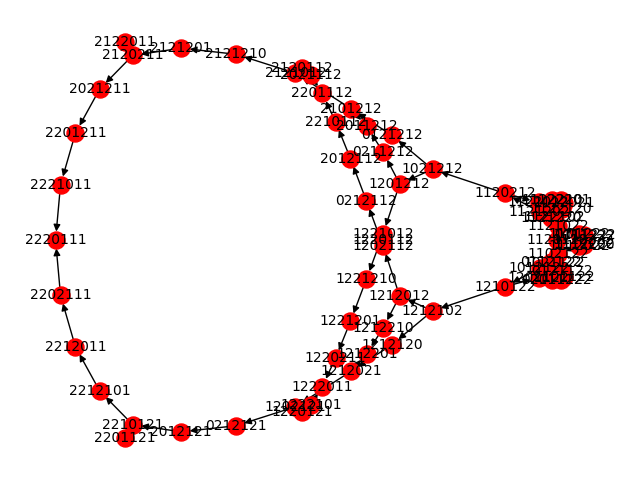
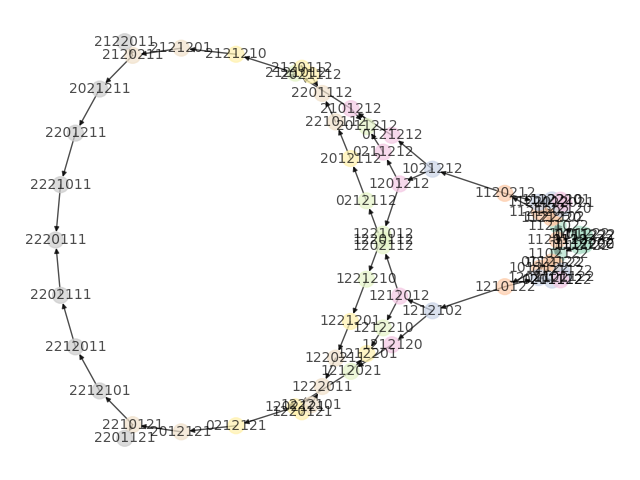
Changed aesthetics and added comments

diff --git a/frog_search_tree.py b/frog_search_tree.py
@@ -42,23 +42,36 @@ class FrogGameSearchTree():
     INITIAL_STATE = '1110222'
     FINAL_STATE = '2220111'
 
-
+    # Returns string representation of the Frog Search Tree
     def __str__(self):
         return str(self.root)
 
+    # Constructor
     def __init__(self):
         self.G = nx.DiGraph()
-        self.counter = 0
         self.root = Node(self.INITIAL_STATE)
 
+    '''
+    Is the frog at that position green?
+    '''
     def isGreenFrog(self,frog):
         return frog is '1'
+    '''
+    Is the frog at that position brown?
+    '''
     def isBrownFrog(self,frog):
         return frog is '2'
 
+    '''
+    Is there no frog at that position?
+    '''
     def hasNoFrog(self,frog):
         return frog is '0'
 
+    '''
+    Constructs the search tree of the graph and calls add_edge
+    to create the search graph
+    '''
     def getStates(self):
 
         unexplored_nodes = queue.Queue()
@@ -67,9 +80,9 @@ class FrogGameSearchTree():
         # Add starting Node
         self.G.add_node(self.root.state)
 
-        ctr = 0
         while True:
             latest_node = unexplored_nodes.get()
+
             if latest_node.state is self.FINAL_STATE:
                 exit()
 
@@ -77,8 +90,6 @@ class FrogGameSearchTree():
                 frogs = latest_node.state
 
 
-                print("Iteration # " + str(ctr))
-                ctr += 1
                 for i in range(len(frogs)):
 
                     if self.isGreenFrog(frogs[i]) and i < len(frogs) - 1:
@@ -153,10 +164,9 @@ class FrogGameSearchTree():
                 print("Bye\n")
                 return
 
+    '''Creates an edge between old_state and new_state and creates a new node
+       if necessary '''
     def add_edge(self,old_state,new_state):
-        print(old_state + ',' + new_state)
-        # if not self.G.has_node(new_state):
-        #     self.G.add_node(new_state)
 
         if not self.G.has_edge(old_state,new_state):
             self.G.add_edge(old_state,new_state)
@@ -166,9 +176,10 @@ class FrogGameSearchTree():
 def main():
     tree = FrogGameSearchTree()
     tree.getStates()
+    print('Search Tree of Frog Problem\n' + '-'*75 + '\n')
     print(tree)
-
-    nx.draw_spectral(tree.G,with_labels = True,node_size=150,font_size=10)
+    print('Number of States in Frog Problem: {} \n'.format( len(tree.G) ))
+    nx.draw_spectral(tree.G,with_labels = True,node_size=130,font_size=10,node_color=range(72),cmap=plt.cm.Pastel2,arrowsize=7,alpha=0.7,style='dashed')
     plt.savefig("simple_path.png") # save as png
     plt.show() # display
 
